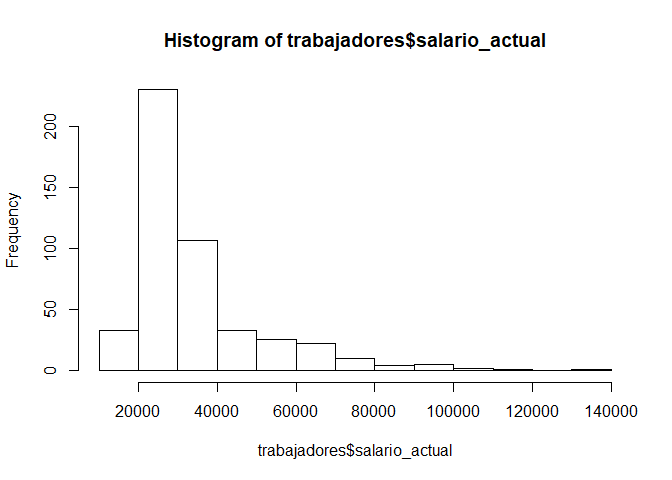
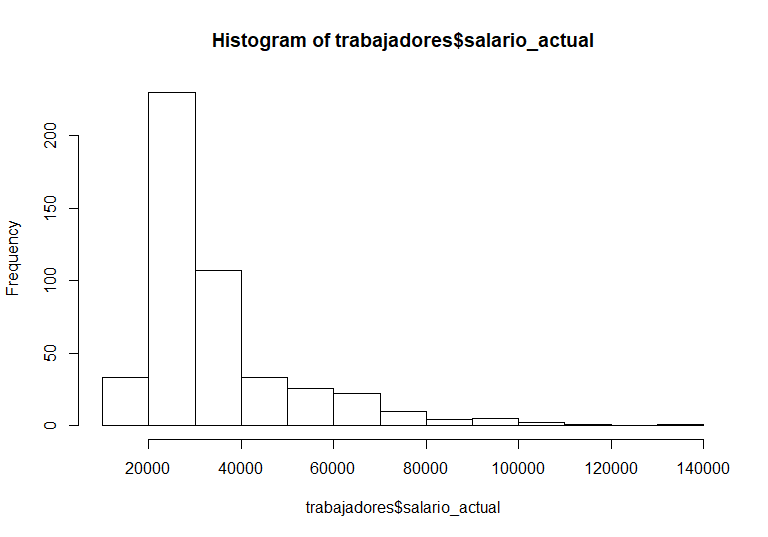
vale

Changed region(s): [[0.0, 0.1562, 0.9688, 0.9688], [0.2188, 0.0625, 0.8125, 0.125]]

diff --git a/content/courses/example/r1.html b/content/courses/example/r1.html
@@ -226,7 +226,13 @@ summary(modelo1)</code></pre>
 ## F-statistic:  1622 on 1 and 472 DF,  p-value: &lt; 2.2e-16</code></pre>
 <p>Para realizar el análisis debemos seguir los pasos de nuestro flujograma:</p>
 <pre class="r"><code>hist(trabajadores$salario_actual)</code></pre>
[1 lines of base64/hex data omitted]
+<div class="figure">
[1 lines of base64/hex data omitted]
+<p class="caption">
+Histrogramita
+</p>
+</div>
+<p>fff</p>
 <pre class="r"><code>boxplot(trabajadores$salario_actual)</code></pre>
[1 lines of base64/hex data omitted]
 </div>

diff --git a/content/courses/example/example3.md b/content/courses/example/example3.md
@@ -71,11 +71,11 @@ flujograma:
 
     hist(trabajadores$salario_actual)
 
-![](r1_files/figure-markdown_strict/unnamed-chunk-4-1.png) fff
+![Image](r1_files/figure-markdown_strict/unnamed-chunk-4-1.png) fff
 
     boxplot(trabajadores$salario_actual)
 
-![](r1_files/figure-markdown_strict/unnamed-chunk-5-1.png)
+![Image](r1_files/figure-markdown_strict/unnamed-chunk-5-1.png)
 
 ### Identificamos los coeficientes y construimos la ecuación
 

diff --git a/content/courses/example/r1.md b/content/courses/example/r1.md
@@ -54,7 +54,8 @@ flujograma:
 
     hist(trabajadores$salario_actual)
 
-![](r1_files/figure-markdown_strict/unnamed-chunk-4-1.png) fff
+![Histrogramita](r1_files/figure-markdown_strict/unnamed-chunk-4-1.png)
+fff
 
     boxplot(trabajadores$salario_actual)
 
